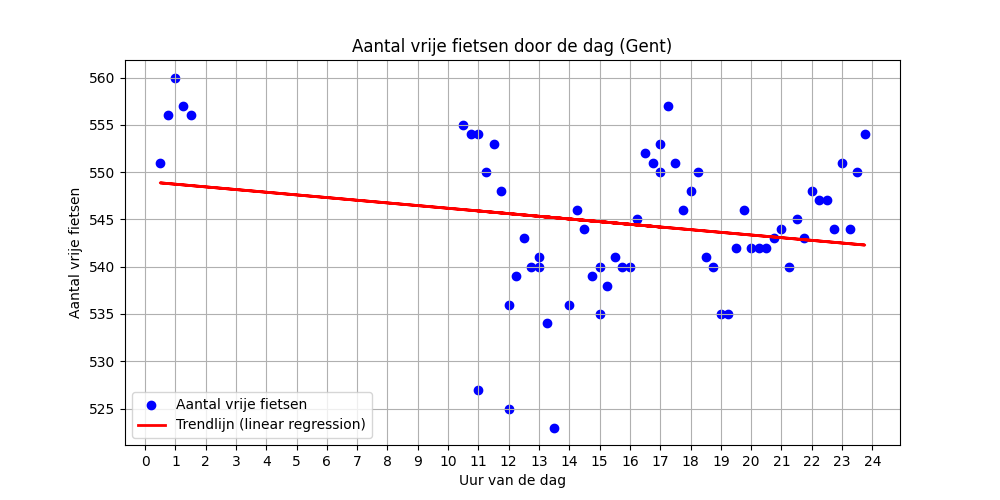
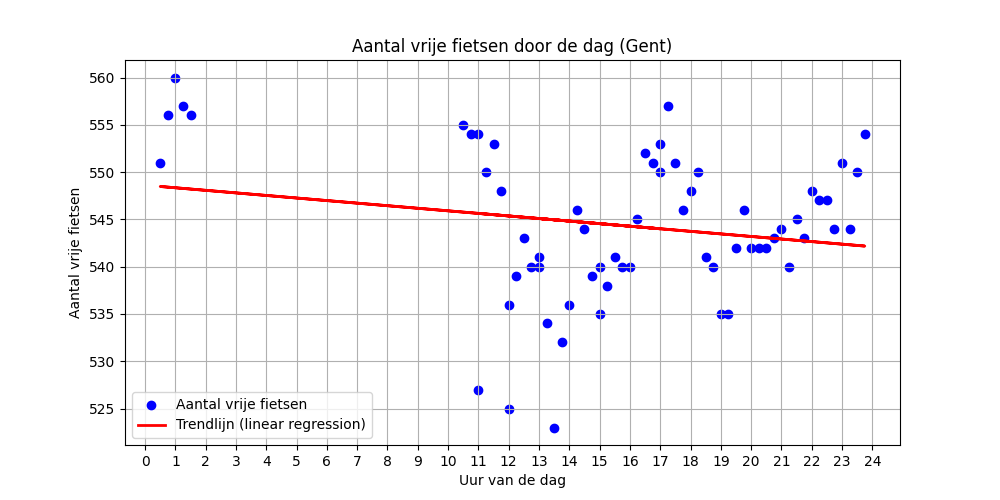
Automatische update 2025-11-15 13:45:09

Changed region(s): [[0.155, 0.36, 0.806, 0.48], [0.806, 0.48, 0.868, 0.51], [0.558, 0.66, 0.589, 0.69]]

diff --git a/reports/report.md b/reports/report.md
@@ -1,16 +1,16 @@
 # Data Workflow Rapport
 
-**Gegenereerd op:** 2025-11-15 13:34:12.312064
+**Gegenereerd op:** 2025-11-15 13:45:08.535721
 
 ## Grafiek: Vrije fietsen vs Temperatuur
 ![Fietsen vs Temp](fiets_vs_temp.png)
 
 ## Basisstatistieken
-- Gemiddelde temperatuur: 14.60 °C
-- Gemiddeld aantal vrije fietsen: 545
+- Gemiddelde temperatuur: 14.62 °C
+- Gemiddeld aantal vrije fietsen: 544
 - Gemiddeld aantal fietsen overdag (07-19u): 543
 - Gemiddeld aantal fietsen ’s nachts (19-07u): 547
-- Correlatie: -0.05
+- Correlatie: -0.09
 
 ## Vrije fietsen per weekdag
 
@@ -21,7 +21,7 @@
 | Woensdag | 0 | 0 | 0 |
 | Donderdag | 525 | 550 | 535 |
 | Vrijdag | 535 | 557 | 545 |
-| Zaterdag | 523 | 560 | 547 |
+| Zaterdag | 523 | 560 | 546 |
 | Zondag | 0 | 0 | 0 |
 
 ---
